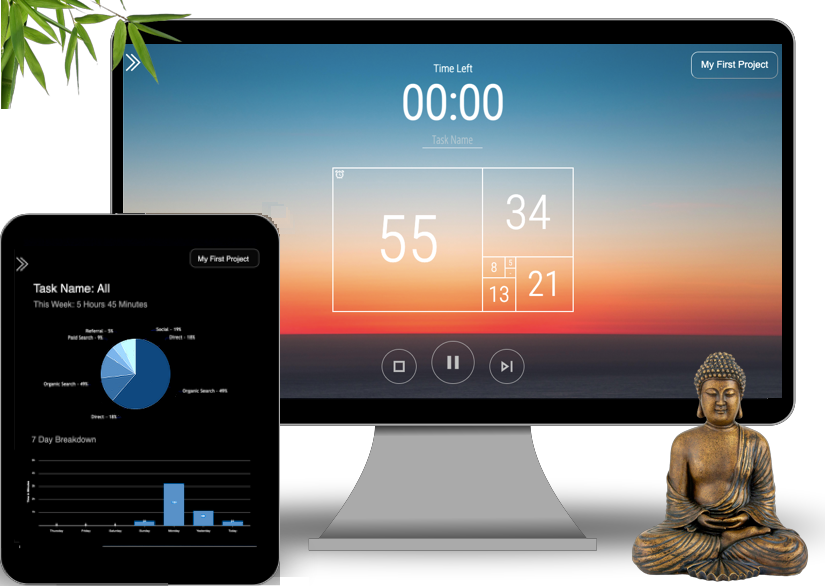
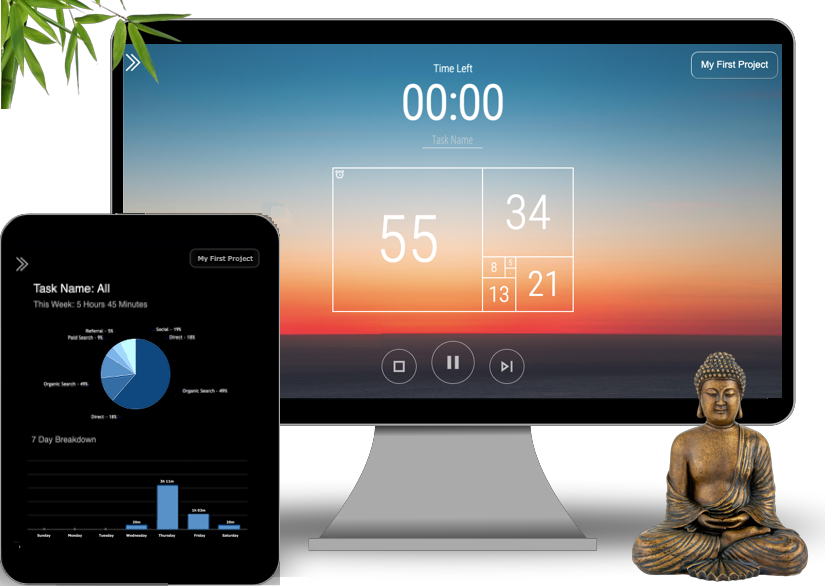
fixed small layout issues

Changed region(s): [[0.0303, 0.7986, 0.303, 0.9522], [0.2424, 0.43, 0.303, 0.4608], [0.4242, 0.5529, 0.4545, 0.5836]]

diff --git a/index.html b/index.html
@@ -107,7 +107,7 @@
             </p>
             <p>Challenge yourself to stay focused and work faster on a task, and let Spiral reward you with a break period when you're finished.</p>
             <p>Use Spiral for all your work tasks to take advantage of inbuilt time tracking and productivity insights.</p>
-            <img src="./img/spiral-mock1.png " class="portfolio-image " alt="Spiral app homepage">
+            <img src="./img/spiral-fixed.png " class="portfolio-image " alt="Spiral app homepage">
             <div class="description">
 
                 <h3>Tech Stack</h3>
